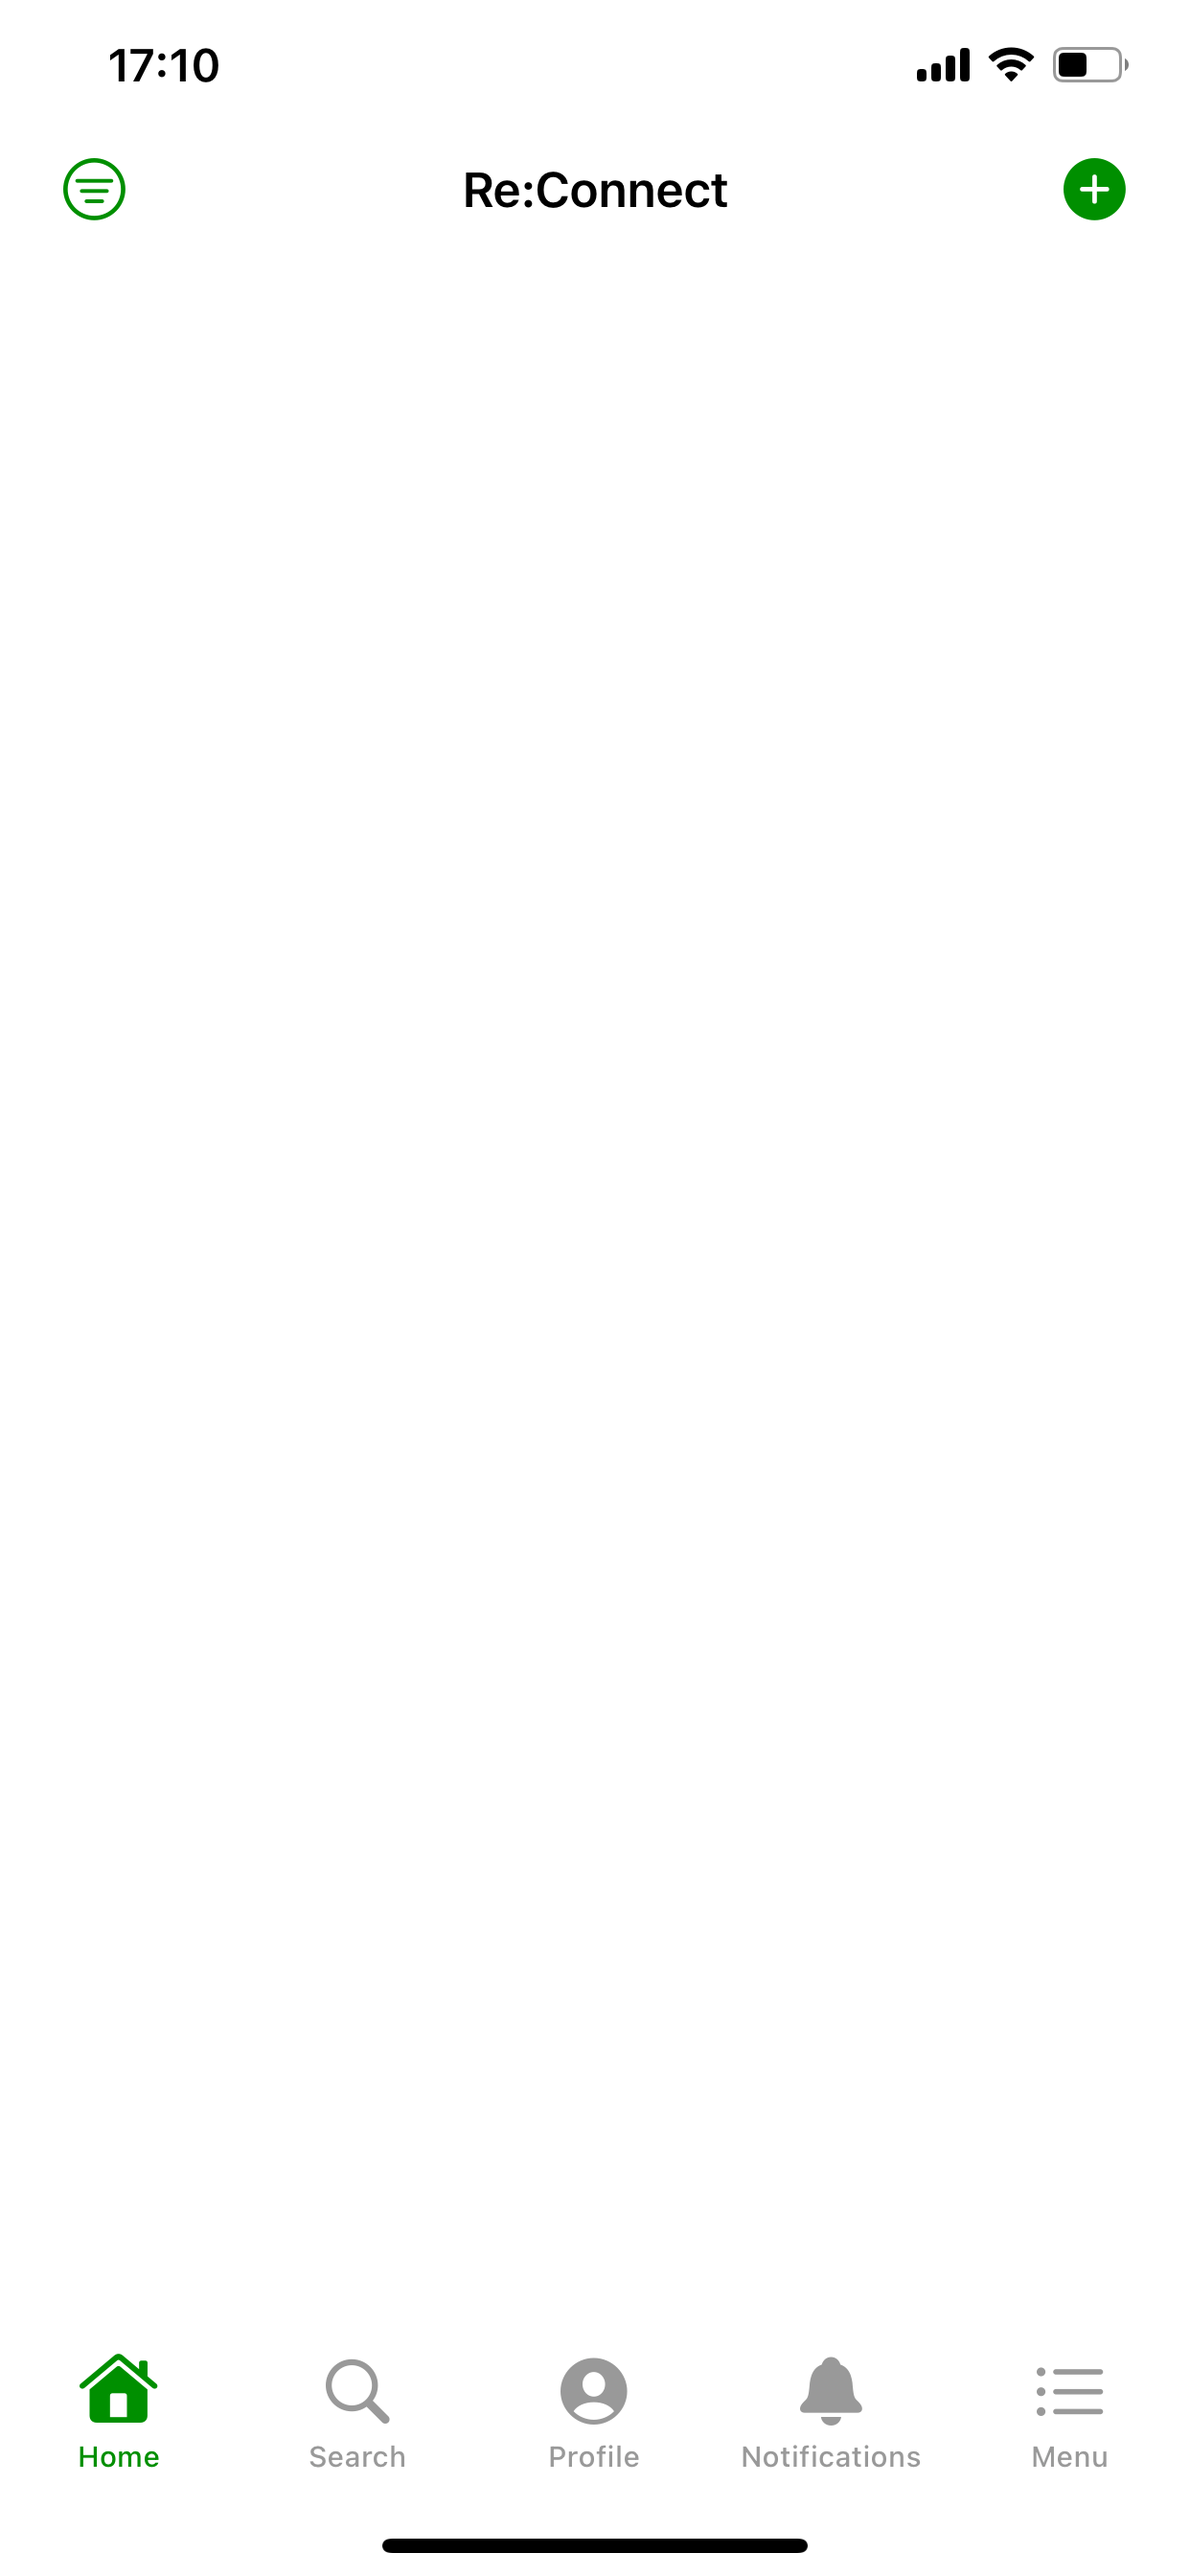
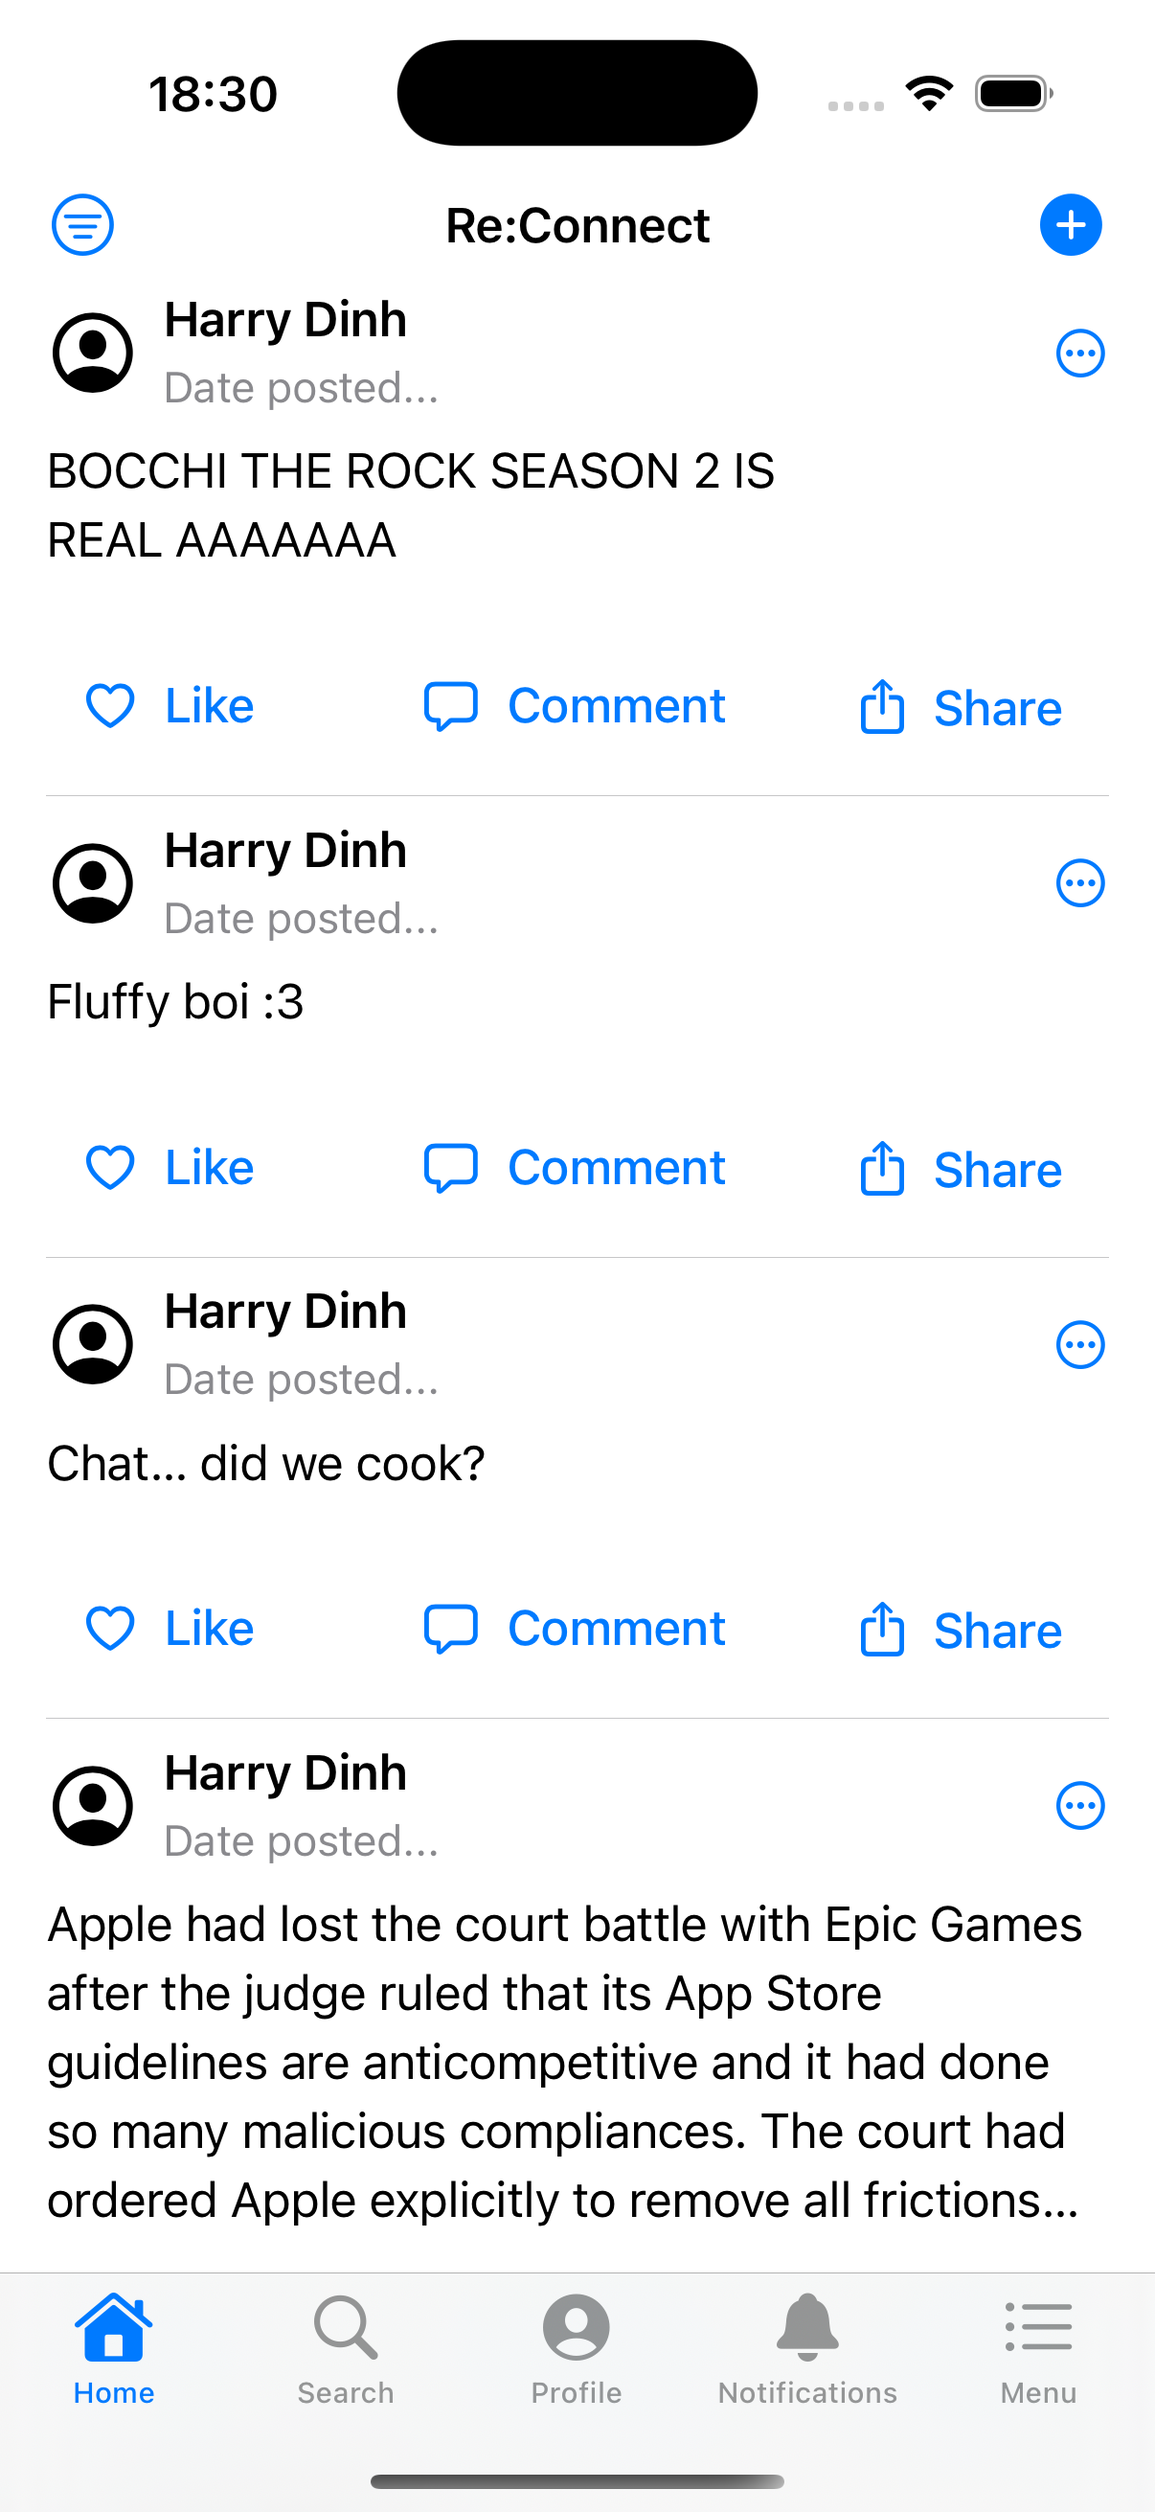
Updated README and example screenshots

diff --git a/README.md b/README.md
@@ -2,6 +2,8 @@
 
 ![Re:Connect Profile Screen](https://raw.githubusercontent.com/Harry-Dinh/Re-Connect/main/Screenshots/ReConnect%20(iOS)/REC_IOS_PROFILE.PNG)
 
+> README last updated on May 10, 2025 at 18:33
+
 > [!NOTE]
 > **A quick note about this repository:**
 > This repository was previously home to many other projects besides Re:Connect. They were moved to make this repository less cluttered and confusing. However, the original path to the Re:Connect source code were still in the same place to prevent errors when Xcode trying to find the original path.
@@ -18,7 +20,7 @@ The following list contains all of the features planned to be included in Re:Con
 - [x] Profile customizations (i.e. colour banner, profile picture, username...)
 - [x] Following other users (public users)
 - [ ] Following other users (private users)
-- [ ] Sharing text-based posts
+- [x] Sharing text-based posts
 - [ ] Sharing media-based posts
 - [x] Search for users
 - [ ] Search for posts
